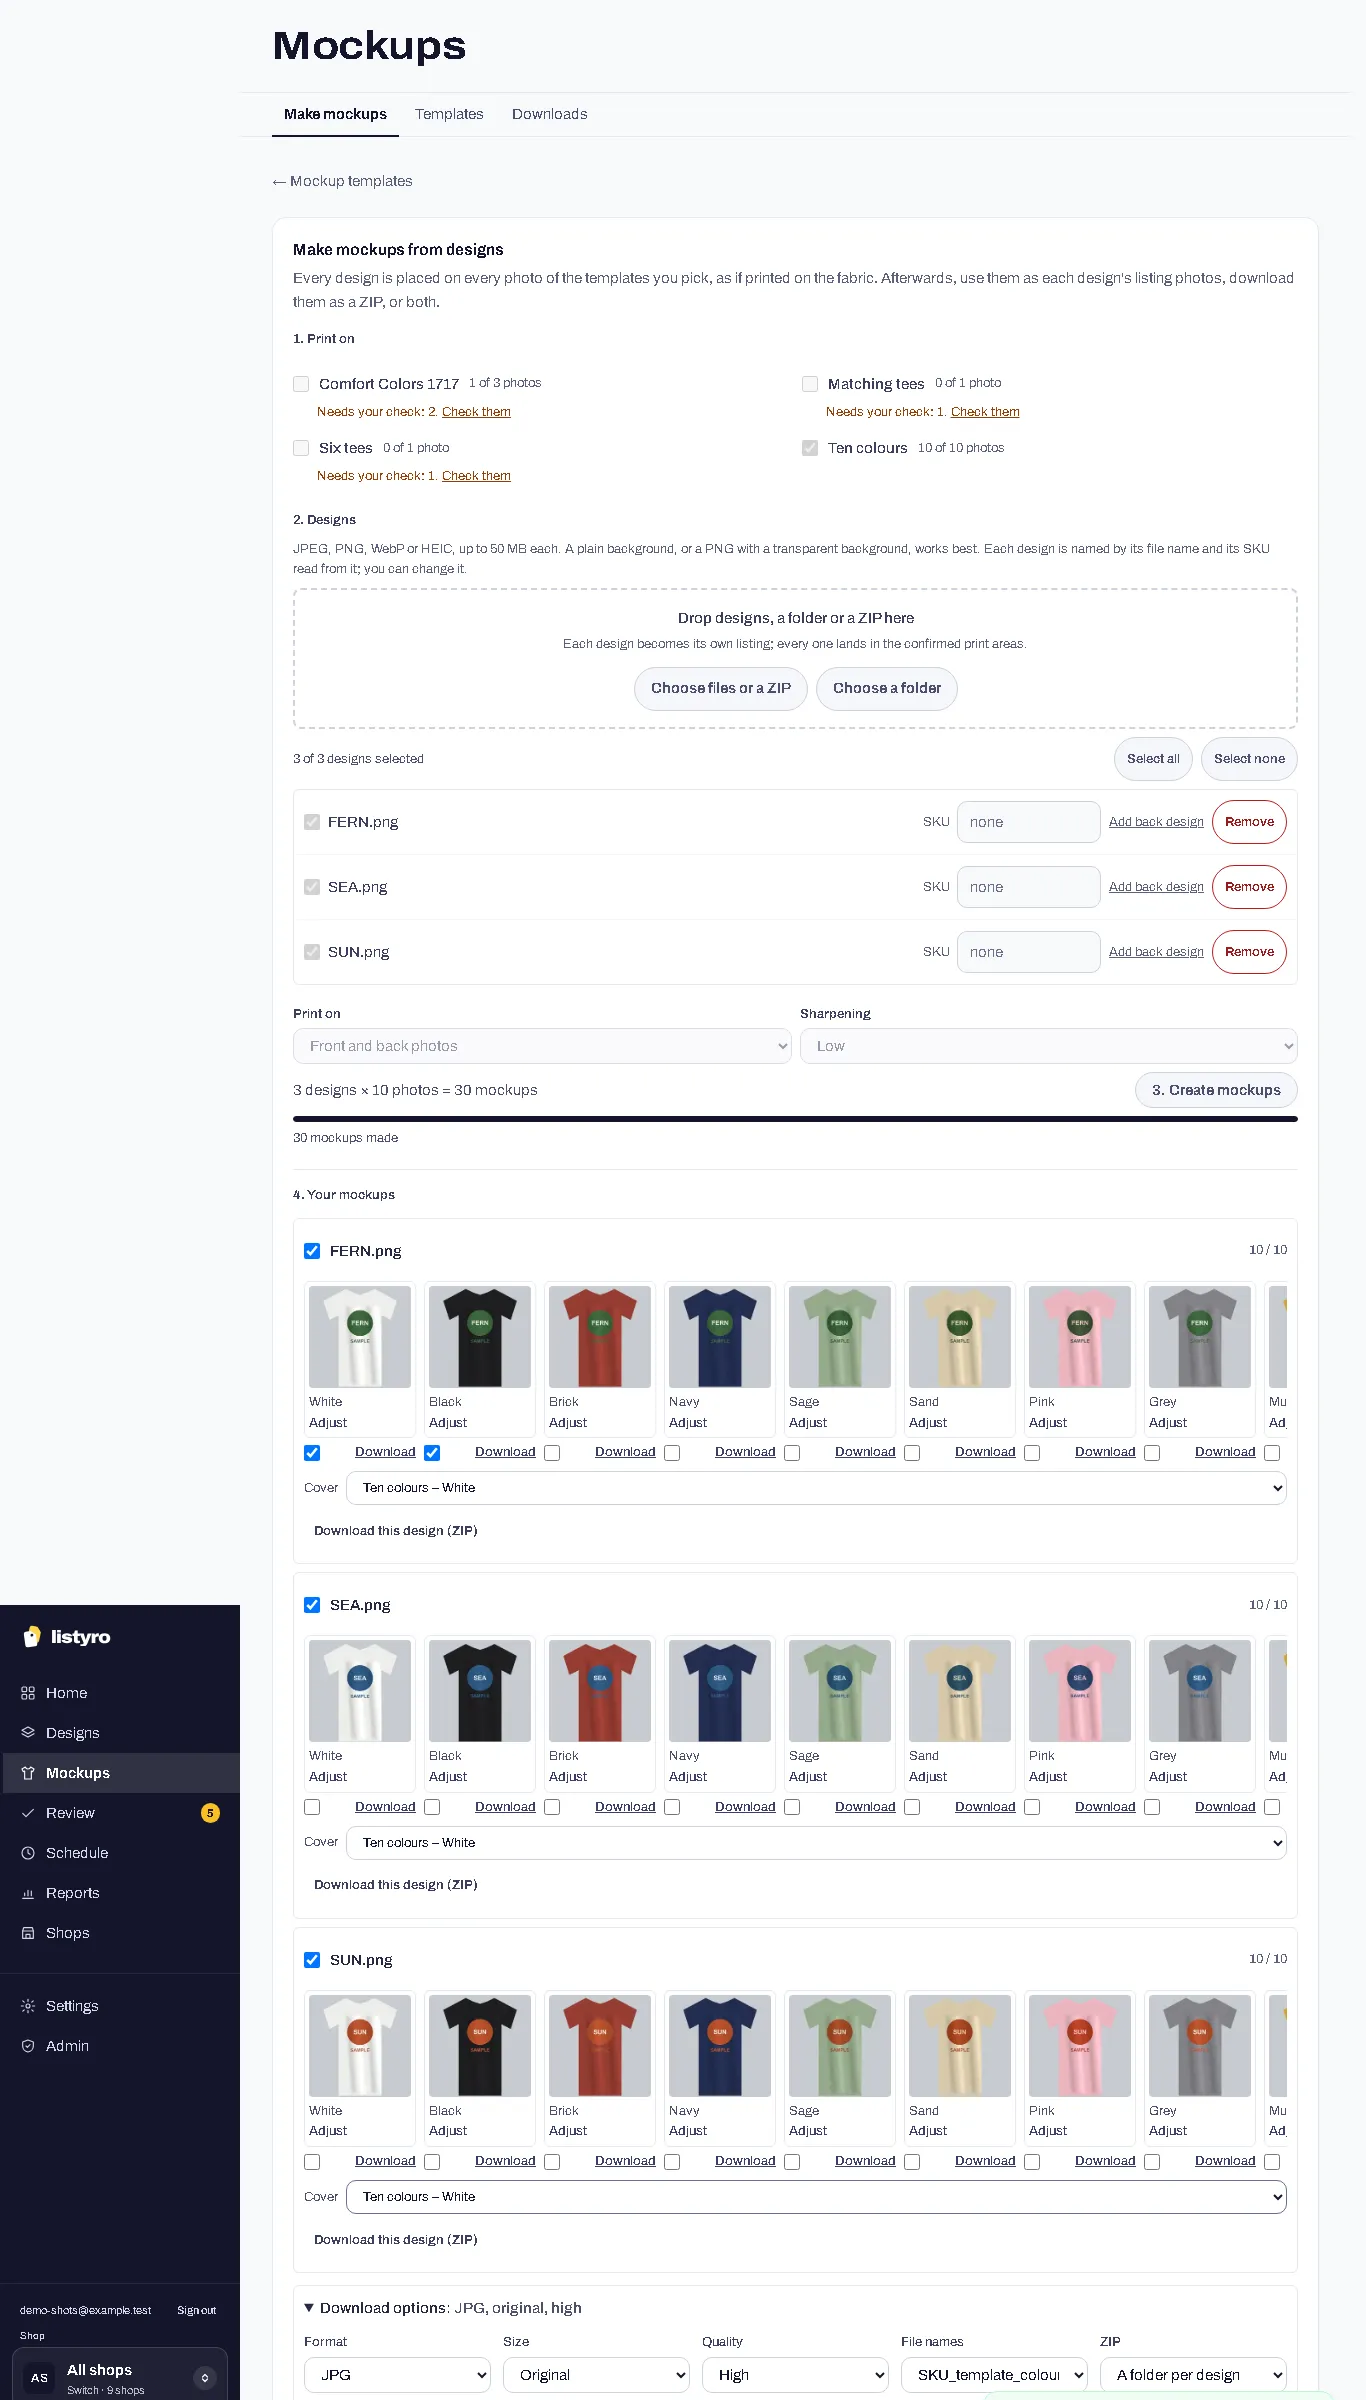
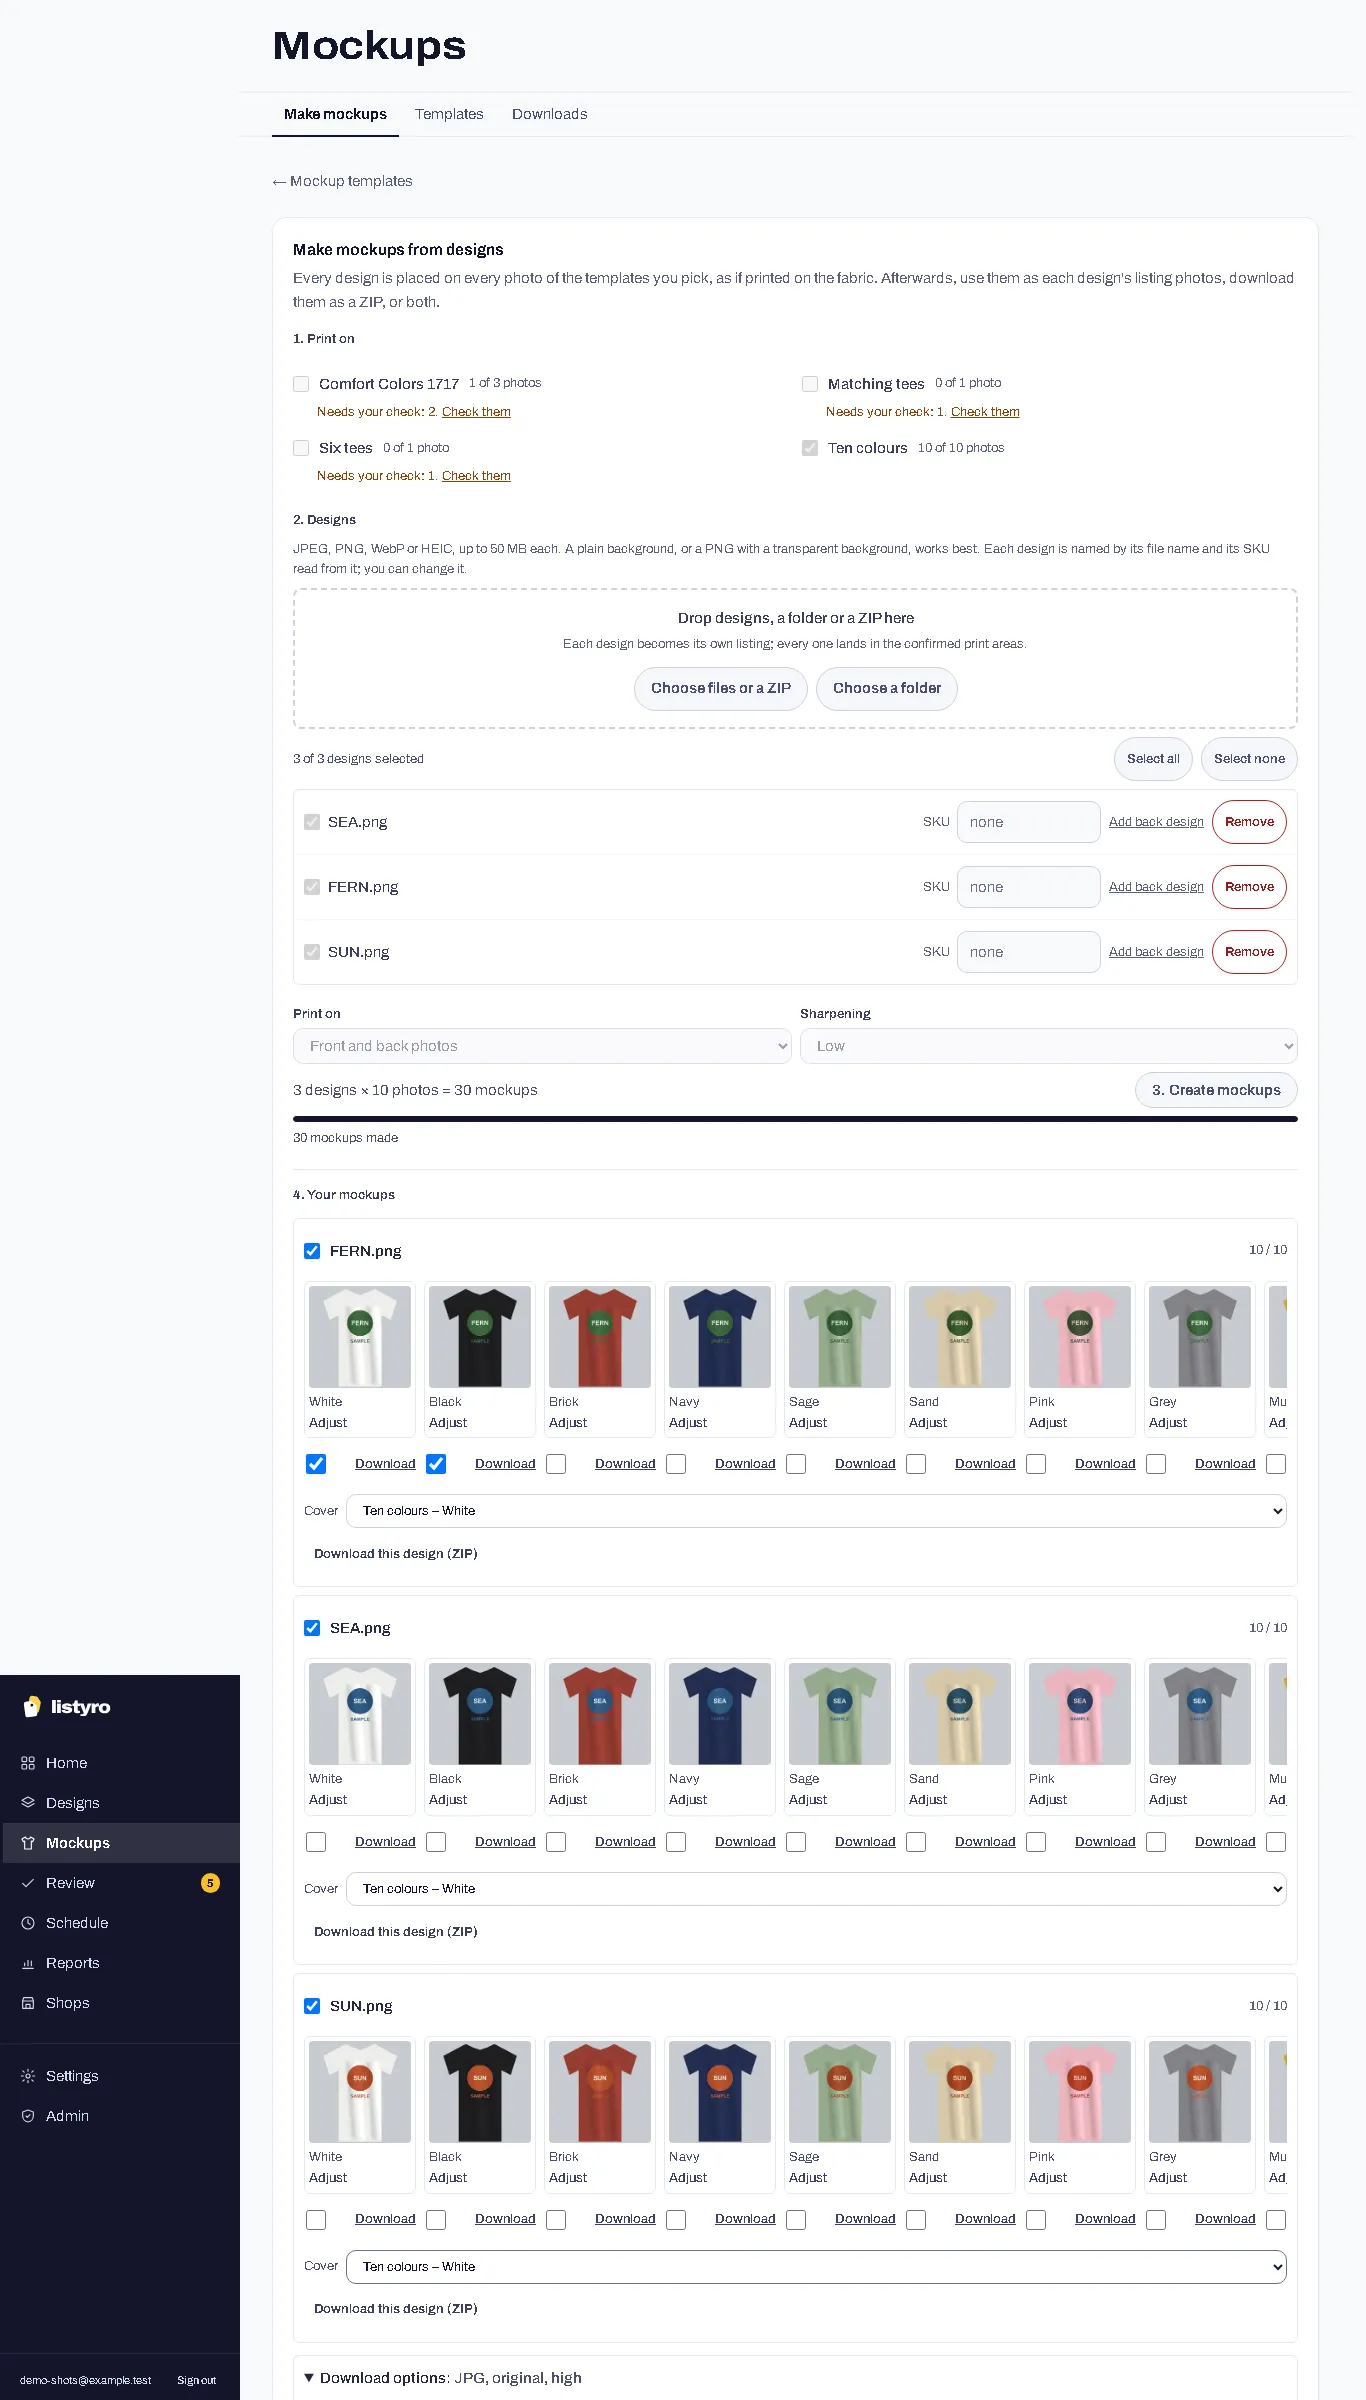
Mockups on a phone: each mockup's checkbox has its own 44 px box (the label's tap overlay covered it); a 375 px browser test ticks two with a normal tap and downloads them; no force in the screenshot script

diff --git a/frontend/e2e/mockupDownloads.spec.ts b/frontend/e2e/mockupDownloads.spec.ts
@@ -1,0 +1,69 @@
+/**
+ * On a phone (375 px): tick two mockups with a normal tap and download them (feature/mockups-editor).
+ *
+ * The checkboxes under the mockups once sat under their own label's 44 px tap overlay (.tap::after), so a tap was
+ * taken by the overlay, not the checkbox. Each checkbox now has a 44 x 44 px box of its own. This test makes the
+ * mockups the way a seller does (two drawn designs on the demo account's "Ten colours" template, made by the
+ * worker), ticks two with an ordinary click, and downloads "Download selected" as a ZIP of exactly those two.
+ * Synthetic demo data only; runs with the layout suite (LAYOUT_EMAIL / LAYOUT_PASSWORD), phone project only.
+ */
+import { expect, test } from "@playwright/test";
+import { readFileSync } from "node:fs";
+import sharp from "sharp";
+import { signIn } from "./session";
+
+const EMAIL = process.env.LAYOUT_EMAIL;
+const PASSWORD = process.env.LAYOUT_PASSWORD;
+
+async function drawn(word: string, colour: string) {
+  const svg = `<svg xmlns="http://www.w3.org/2000/svg" width="900" height="1000"><circle cx="450" cy="420" r="320" fill="${colour}"/>
+    <text x="450" y="470" font-family="Arial, sans-serif" font-size="160" font-weight="700" fill="#fff" text-anchor="middle">${word}</text></svg>`;
+  return { name: `${word}.png`, mimeType: "image/png", buffer: await sharp(Buffer.from(svg)).png().toBuffer() };
+}
+
+/** The names in a ZIP's central directory. */
+function zipNames(data: Buffer): string[] {
+  const names: string[] = [];
+  for (let i = data.indexOf("PK\x01\x02"); i >= 0; i = data.indexOf("PK\x01\x02", i + 4)) {
+    const length = data.readUInt16LE(i + 28);
+    names.push(data.subarray(i + 46, i + 46 + length).toString("utf8"));
+  }
+  return names;
+}
+
+test.describe("mockup downloads on a phone", () => {
+  test.skip(!EMAIL || !PASSWORD, "set LAYOUT_EMAIL and LAYOUT_PASSWORD (the demo admin from `seed-demo --admin`) to run these");
+
+  test("two mockups ticked with a normal tap, downloaded as a ZIP of those two", async ({ page }, info) => {
+    test.skip(info.project.name !== "phone-375", "a phone's layout");
+    test.setTimeout(240_000);
+    await signIn(page, EMAIL!, PASSWORD!);
+    await page.goto("/mockups");
+    await page.getByTestId("mockup-templates").waitFor();
+    const labels = await page.getByTestId("mockup-templates").locator("label").allInnerTexts();
+    const ten = labels.findIndex((l) => l.includes("Ten colours"));
+    expect(ten, "the demo account's Ten colours template").toBeGreaterThanOrEqual(0);
+    await page.getByTestId("mockup-template").nth(ten).click();
+    await page.getByTestId("mockup-designs-files").setInputFiles([await drawn("SUN", "#c2542d"), await drawn("SEA", "#2f5d8a")]);
+    await expect(page.getByTestId("mockup-make")).toBeEnabled({ timeout: 120_000 });
+    await page.getByTestId("mockup-make").click();
+    await expect(page.getByTestId("mockup-zip")).toBeVisible({ timeout: 180_000 }); // the worker made them
+
+    const boxes = page.getByTestId("mockup-pick-box");
+    for (const n of [0, 1]) {
+      const size = await boxes.nth(n).boundingBox();
+      expect(size && size.width >= 44 && size.height >= 44, `the tap box is at least 44 px (${JSON.stringify(size)})`).toBe(true);
+      await page.getByTestId("mockup-pick").nth(n).click(); // an ordinary tap: nothing may cover it
+      await expect(page.getByTestId("mockup-pick").nth(n)).toBeChecked();
+    }
+    await expect(page.getByTestId("mockup-zip-selected")).toHaveText("Download selected (2)");
+    await page.getByTestId("mockup-zip-selected").click();
+    const link = page.getByTestId("mockup-zip-download");
+    await expect(link).toBeVisible({ timeout: 120_000 });
+    const [download] = await Promise.all([page.waitForEvent("download"), link.click()]);
+    expect(download.suggestedFilename()).toMatch(/^mockups-\d{4}-\d{2}-\d{2}\.zip$/);
+    const names = zipNames(readFileSync(await download.path()));
+    expect(names.length, names.join(", ")).toBe(2);
+    expect(names.every((n) => /\.jpg$/.test(n))).toBe(true);
+  });
+});

diff --git a/frontend/components/MockupUpload.tsx b/frontend/components/MockupUpload.tsx
@@ -815,8 +815,11 @@ function Results({ run, onRun, onOpen, focus }: { run: MockupRun; onRun: (r: Moc
                       onRetry={() => o.photo_id && retry(d.design_id, o.photo_id)} />
                     {finished && o.available ? (
                       <div key="dl" className="mt-1 flex items-center justify-between gap-1">
-                        <label className="tap flex items-center" title="Select for Download selected">
-                          <input type="checkbox" className="h-4 w-4 rounded border-slate-300" checked={picked.includes(o.id)}
+                        {/* A 44 px box of its own around the checkbox: no .tap overlay over it (on a phone the
+                            overlay sat on top of the checkbox), the whole box ticks it. */}
+                        <label className="-ml-2.5 flex h-11 w-11 shrink-0 cursor-pointer items-center justify-center" title="Select for Download selected"
+                          data-testid="mockup-pick-box">
+                          <input type="checkbox" className="h-5 w-5 rounded border-slate-300" checked={picked.includes(o.id)}
                             aria-label={`Select ${d.sku ?? d.original_filename} on ${o.photo_name ?? o.template_name}`}
                             onChange={(e) => setPicked((all) => (e.target.checked ? [...all, o.id] : all.filter((x) => x !== o.id)))}
                             data-testid="mockup-pick" />
